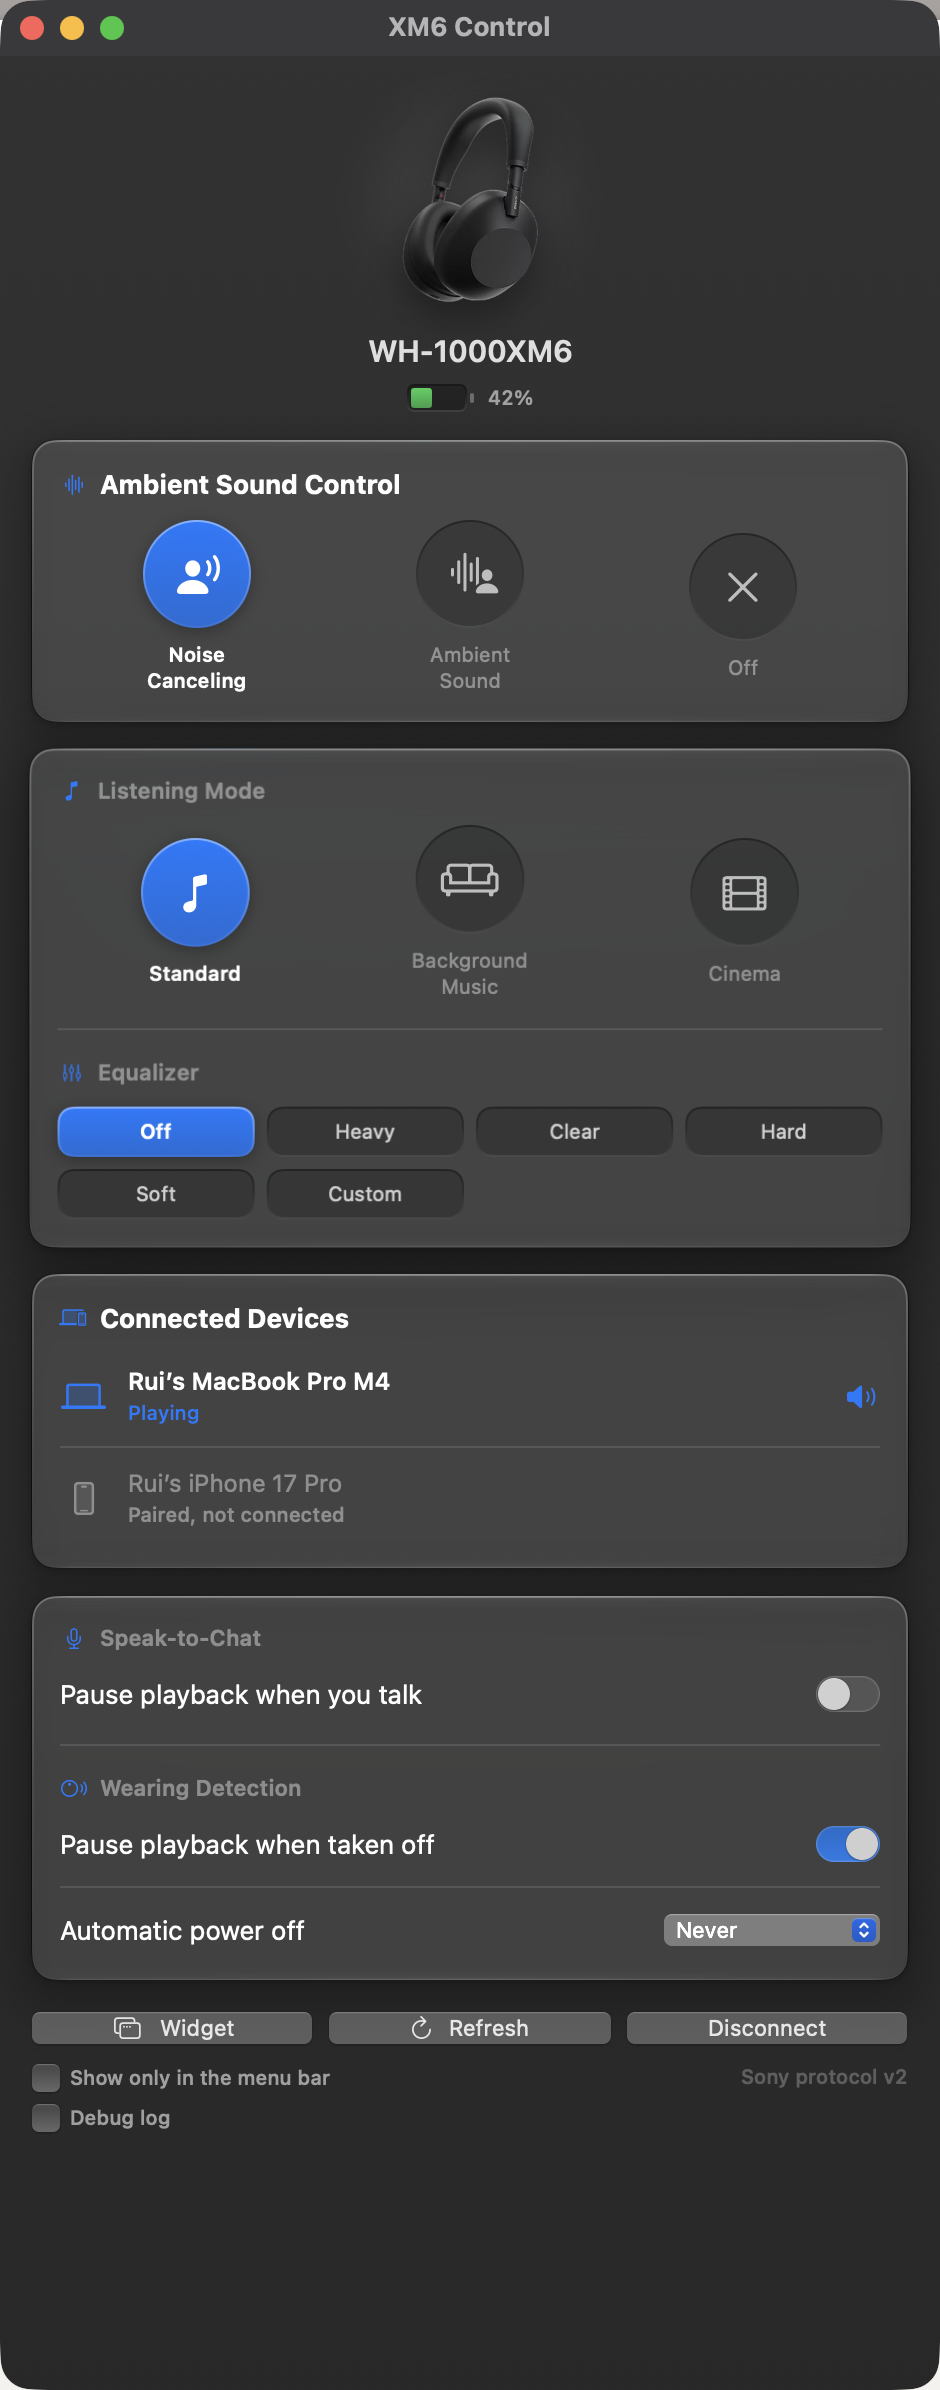
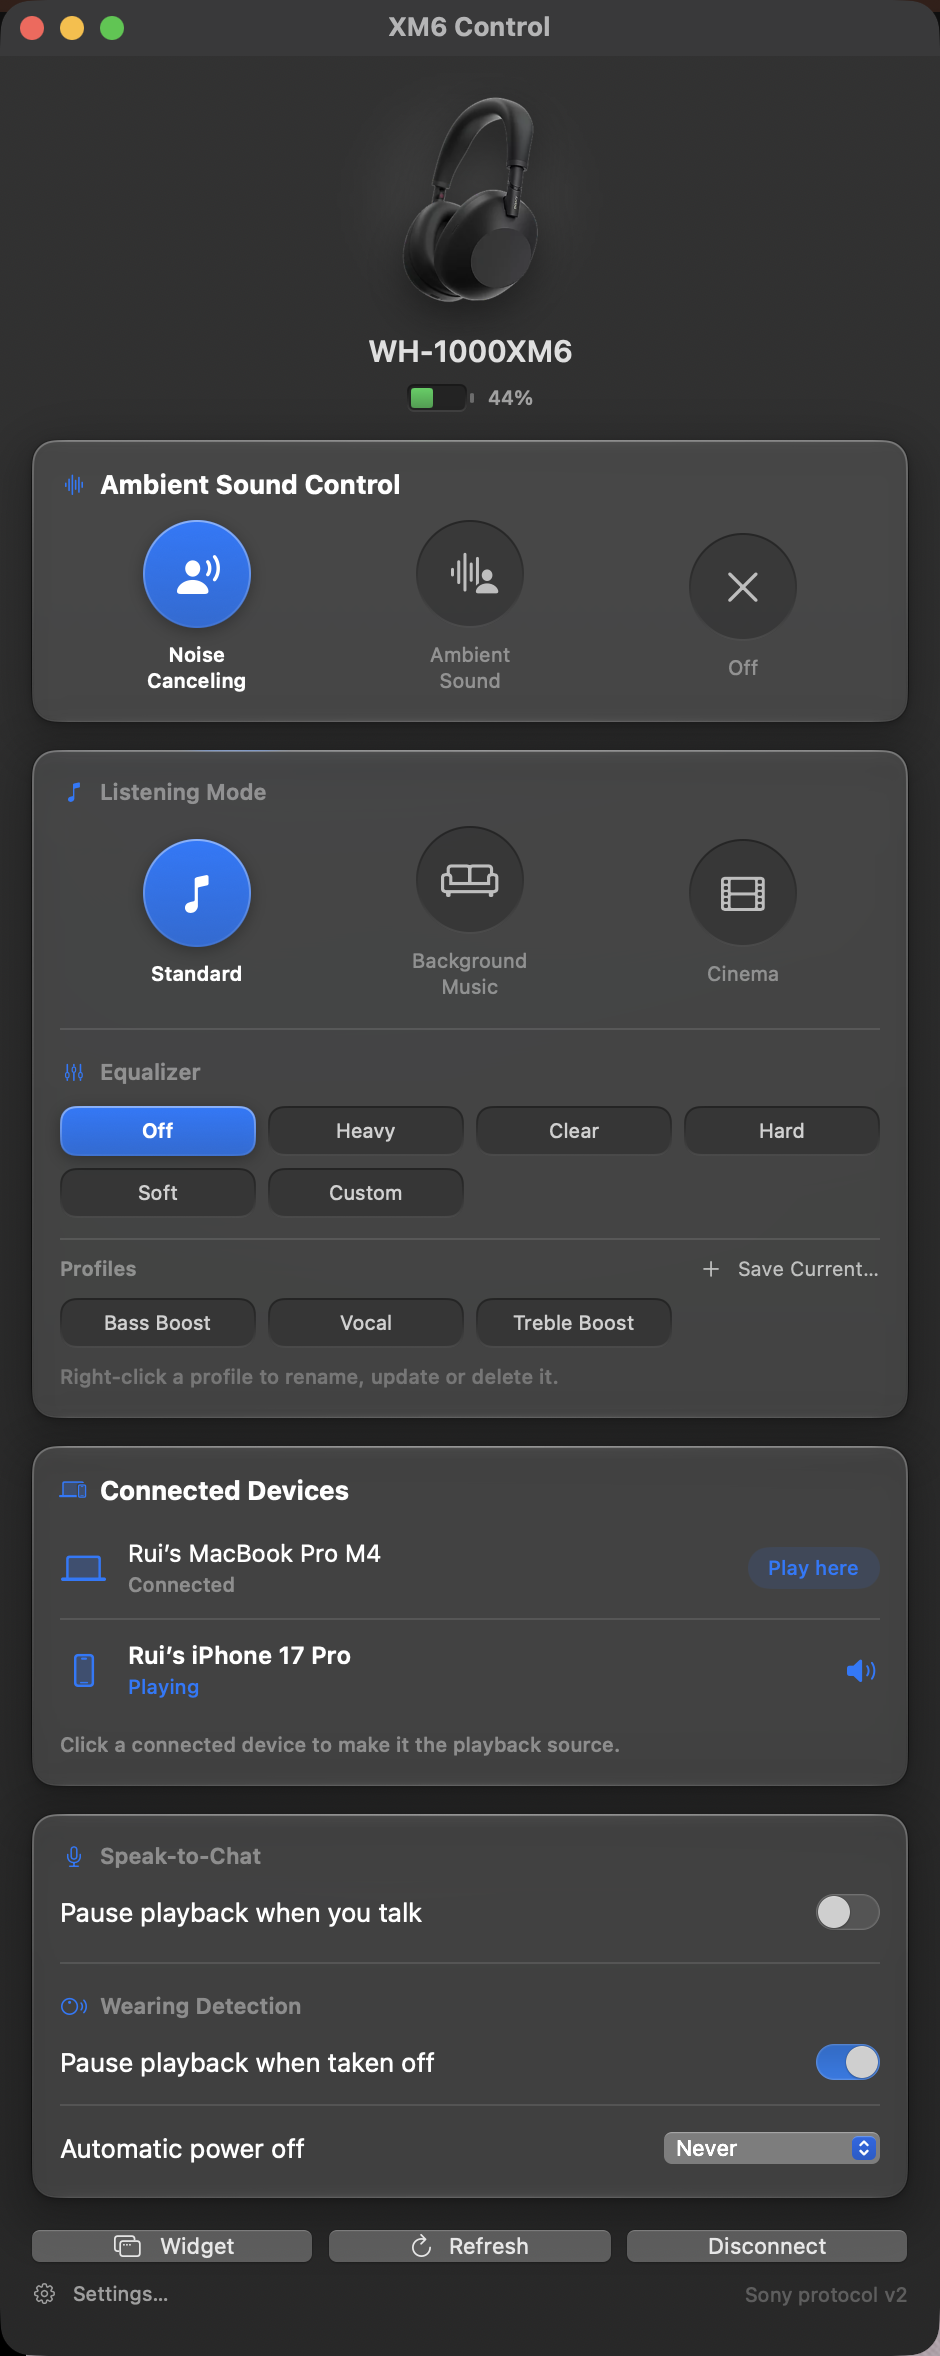
Document installing from the disk image, profiles and Settings

diff --git a/README.md b/README.md
@@ -18,6 +18,7 @@
 | Listening Mode (Standard / Background Music / Cinema) | ✅ including BGM room size (My Room / Living Room / Cafe) |
 | Equalizer presets (Off, Heavy, Clear, Hard, Soft, Custom) | ✅ XM6-native preset codes |
 | Custom equalizer | ✅ ten band faders, written live as you drag |
+| Equalizer profiles | ✅ save as many named curves as you like and switch between them, from the window or the menu bar |
 | Battery level + charging status | ✅ live updates |
 | Multipoint device list with names | ✅ shows all connected devices |
 | Playback source switching ("Play here") | ✅ one click |
@@ -27,6 +28,7 @@
 | Menu bar quick controls | ✅ full control without opening the app |
 | Floating desktop widget | ✅ draggable, all-Spaces, remembers position |
 | Menu-bar-only mode | ✅ optional, hides the Dock icon; on by choice, not by default |
+| Open at login | ✅ one switch in Settings |
 | Light and dark appearance | ✅ every surface tone resolves per system appearance |
 | Adaptive layout | ✅ two columns in a wide window, one in a narrow one |
 
@@ -38,24 +40,49 @@ The app is **event-driven**: 0% CPU at idle, no polling, negligible battery impa
 - Xcode Command Line Tools (`xcode-select --install`). Full Xcode is not required
 - A Sony WH-1000XM6 paired in **System Settings → Bluetooth**
 
-## Build & Run
+## Install
+
+Build the installer:
 
 ```sh
-git clone <this-repo>
+git clone https://github.com/ruimartins23/xm6-control.git
 cd xm6-control
+./Scripts/make_dmg.sh
+```
+
+That produces `dist/XM6-Control-1.0.dmg`. Open it and drag **XM6 Control** onto the **Applications** shortcut, the same way you would install any Mac app. To have it start with your Mac, turn on **Open at login** in Settings (⌘,).
+
+On first launch macOS asks for Bluetooth permission. Click **Allow**. Make sure the headphones are powered on and connected as an audio device before hitting **Try Again** if the first connection races.
+
+### Opening a copy someone else built
+
+The app is signed, but not with an Apple Developer ID or notarized by Apple, so on another Mac the first open of a downloaded copy is blocked with a warning that Apple can't check it. To allow it once:
+
+- **macOS 15 and later:** try to open the app, then go to **System Settings → Privacy & Security**, scroll down, and click **Open Anyway**.
+- **macOS 13 and 14:** Control-click the app in Applications, choose **Open**, then **Open** again.
+
+You only need to do this the first time. Building it yourself with the steps above avoids the warning entirely, since macOS only checks apps that were downloaded.
+
+## Build & Run (development)
+
+```sh
 ./Scripts/build_app.sh
 open ".build/XM6 Control.app"
 ```
 
-That's it. The script builds with SwiftPM, packages a double-clickable `.app`, generates the app icon, and signs the bundle. Drag `XM6 Control.app` to `/Applications` if you want it permanent, and add it to **System Settings → General → Login Items** to start it at login.
-
-On first launch macOS asks for Bluetooth permission. Click **Allow**. Make sure the headphones are powered on and connected as an audio device before hitting **Try Again** if the first connection races.
+The script builds with SwiftPM, packages a double-clickable `.app`, generates the app icon, and signs the bundle. `make_dmg.sh` runs it for you, then packages a clean, strictly verified copy of the result.
 
 ### Window or menu bar
 
 By default XM6 Control behaves like a normal Mac app: a Dock icon, and a window when you open it. The menu bar panel is always there too, so quick changes never need the window.
 
-If you would rather it stay out of the way entirely, tick **Show only in the menu bar** at the bottom of the window. That drops the Dock icon and the app-switcher entry, and the menu bar panel becomes the whole interface. The same checkbox lives in that panel, so unticking it brings the window and Dock icon back.
+If you would rather it stay out of the way entirely, turn on **Show only in the menu bar** in Settings (⌘,). That drops the Dock icon and the app-switcher entry, and the menu bar panel becomes the whole interface. The same option lives in that panel, so unticking it brings the window and Dock icon back.
+
+### Equalizer profiles
+
+The headphones hold a single custom curve. Profiles live in the app instead, so you can keep as many as you want: applying one writes its curve into that slot. Shape a curve with the faders (or start from any preset), click **Save Current…**, and give it a name. Right-click a profile to rename it, overwrite it with the current curve, or delete it. Profiles also appear in the equalizer menu of the menu bar panel.
+
+Three starters are included (Bass Boost, Vocal, Treble Boost). They are broad tilts shaped by band position, since the headphones don't publish each band's centre frequency; delete them if you don't want them, and they stay deleted.
 
 ### Avoiding permission re-prompts across rebuilds
 
@@ -99,7 +126,7 @@ Sources/
 
 The XM6 speaks Sony's proprietary MDR protocol over RFCOMM (service UUID `96CC203E-5068-46ad-B32D-E316F5E069BA`): framed messages with an alternating sequence bit, per-frame ACKs, and two independent opcode tables. The XM6 generation moved several features to new command families relative to older 1000X models: the equalizer answers a different inquired type, wearing detection moved to the SYSTEM family, and multipoint management lives on the second message table. All command layouts used here were verified against a live WH-1000XM6 (firmware 3.x) via the built-in protocol log.
 
-Enable **Debug logging** at the bottom of the main window to capture a hex transcript of every frame at `~/Library/Application Support/XM6 Control/protocol.log`. That transcript is what makes adding features or supporting new firmware practical.
+Turn on **Write a protocol debug log** in Settings (⌘,) to capture a hex transcript of every frame at `~/Library/Application Support/XM6 Control/protocol.log`; **Show in Finder** next to it takes you there. That transcript is what makes adding features or supporting new firmware practical.
 
 ## Troubleshooting
 
